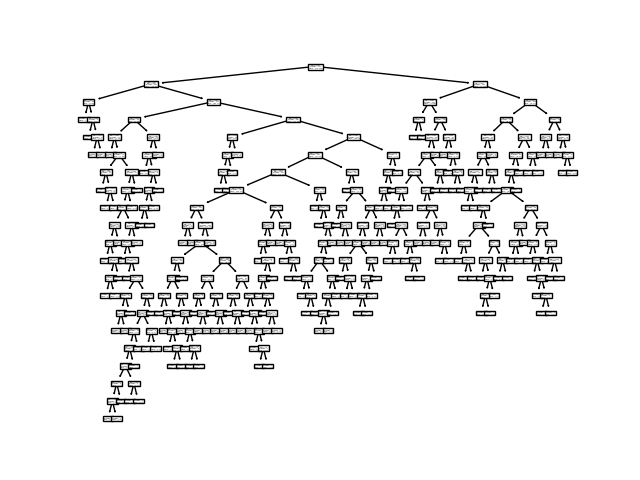
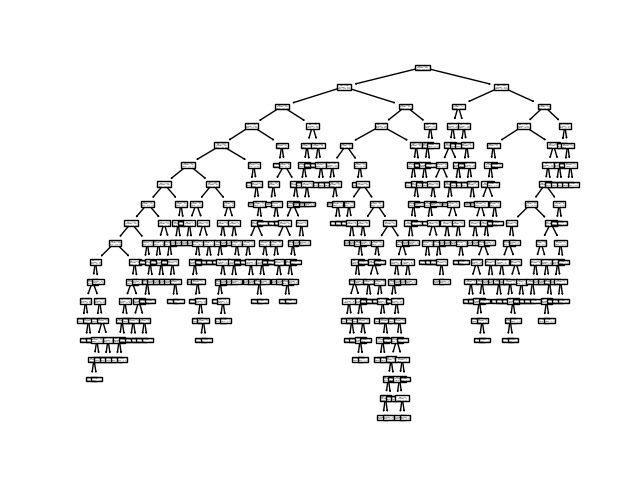
decision tree implementation updated

Changed region(s): [[0.125, 0.125, 0.9062, 0.9062]]

diff --git a/main_scikit.py b/main_scikit.py
@@ -5,10 +5,13 @@ import sys
 import matplotlib.pyplot as plt
 import matplotlib
 from dataExtract import read_csv
- 
+import csv
 
 matplotlib.use('Agg')
 path = Path('.')
+
+f = open('pred.csv', 'w', newline='')
+csvwriter = csv.writer(f)
 
 features = ['Pclass', 'Sex', 'Age', 'SibSp', 'Parch', 'Fare', 'Embarked']
 Y = ['Survived']
@@ -17,4 +20,7 @@ dtree = DecisionTreeClassifier()
 dtree.fit(train[features], train[Y])
 tree.plot_tree(dtree, feature_names = features)
 plt.savefig(fname = "dtree.png")
-predictions = tree.predict(test[features])
+predictions = dtree.predict(test[features])
+csvwriter.writerow(["PassengerId","Survived"])
+m = lambda z: [csvwriter.writerow([str(i + 892), str(z[i])]) for i in range(len(z))]
+m(predictions)

diff --git a/dataExtract.py b/dataExtract.py
@@ -46,8 +46,8 @@ def read_csv(path = path, modeltype = 'Pytorch'):
     gender_dict = {"male" : 0, "female" : 1}
     train['Sex'] = train['Sex'].map(gender_dict)
     test['Sex'] = test['Sex'].map(gender_dict)
-    test = test.dropna()
-    train = train.dropna()
+    test = test.fillna(0)
+    train = train.fillna(0)
     if modeltype == 'Pytorch':
         train, test = convert_csv(train, test)  
     return train, test
